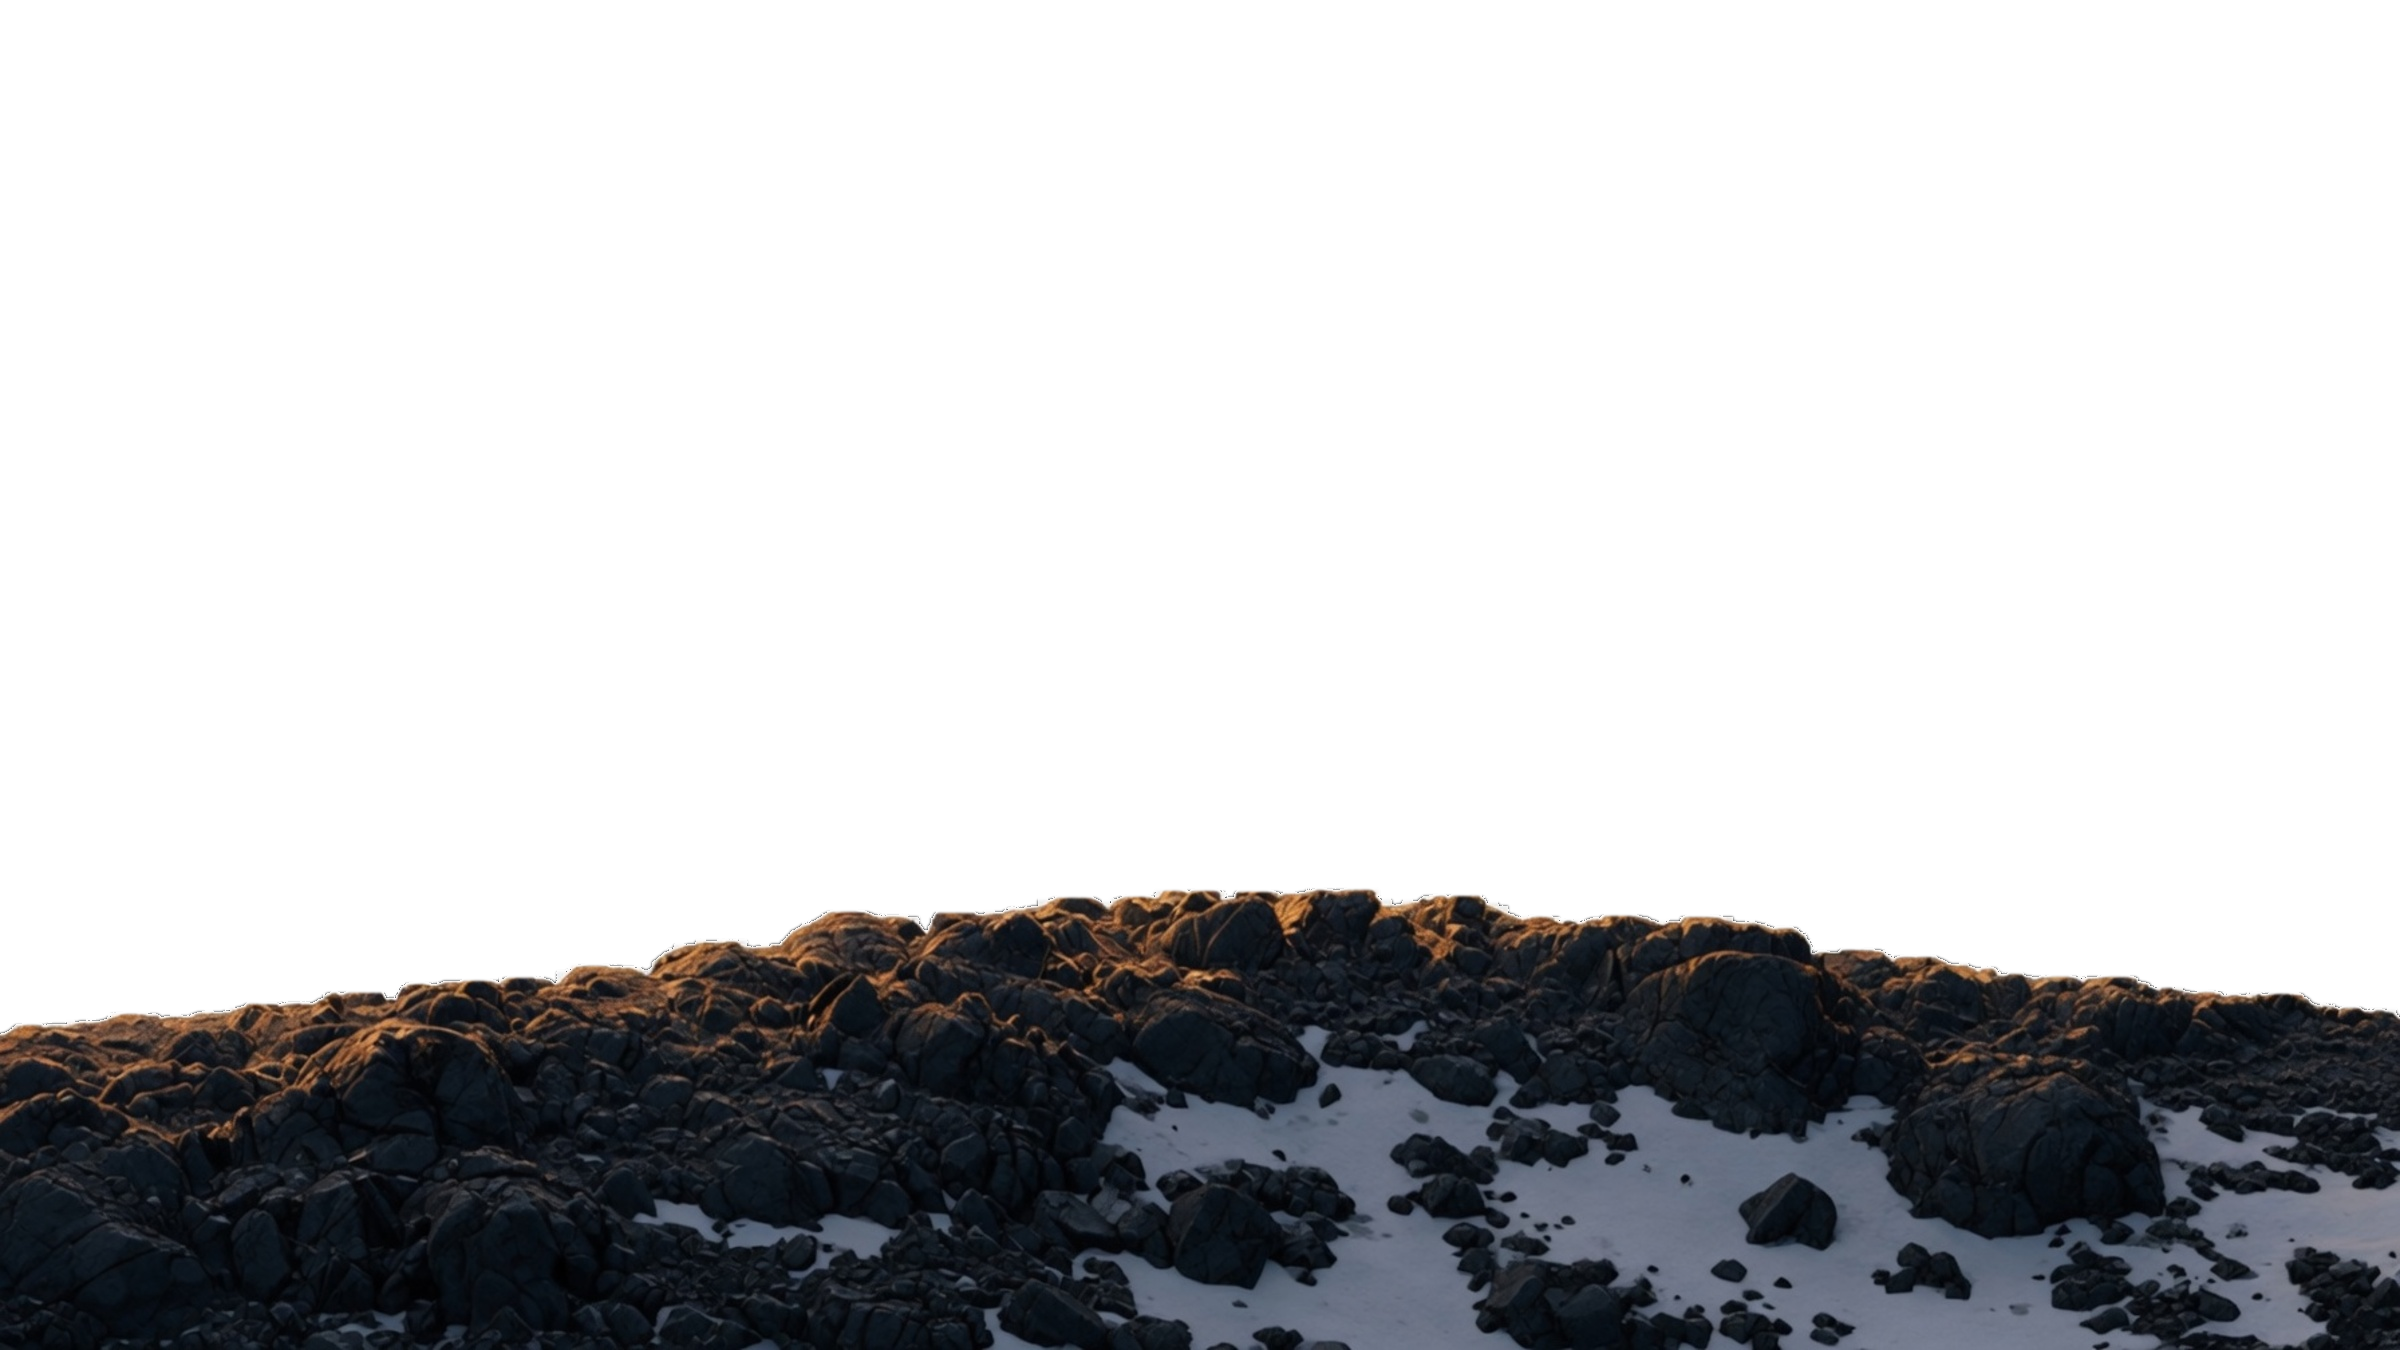
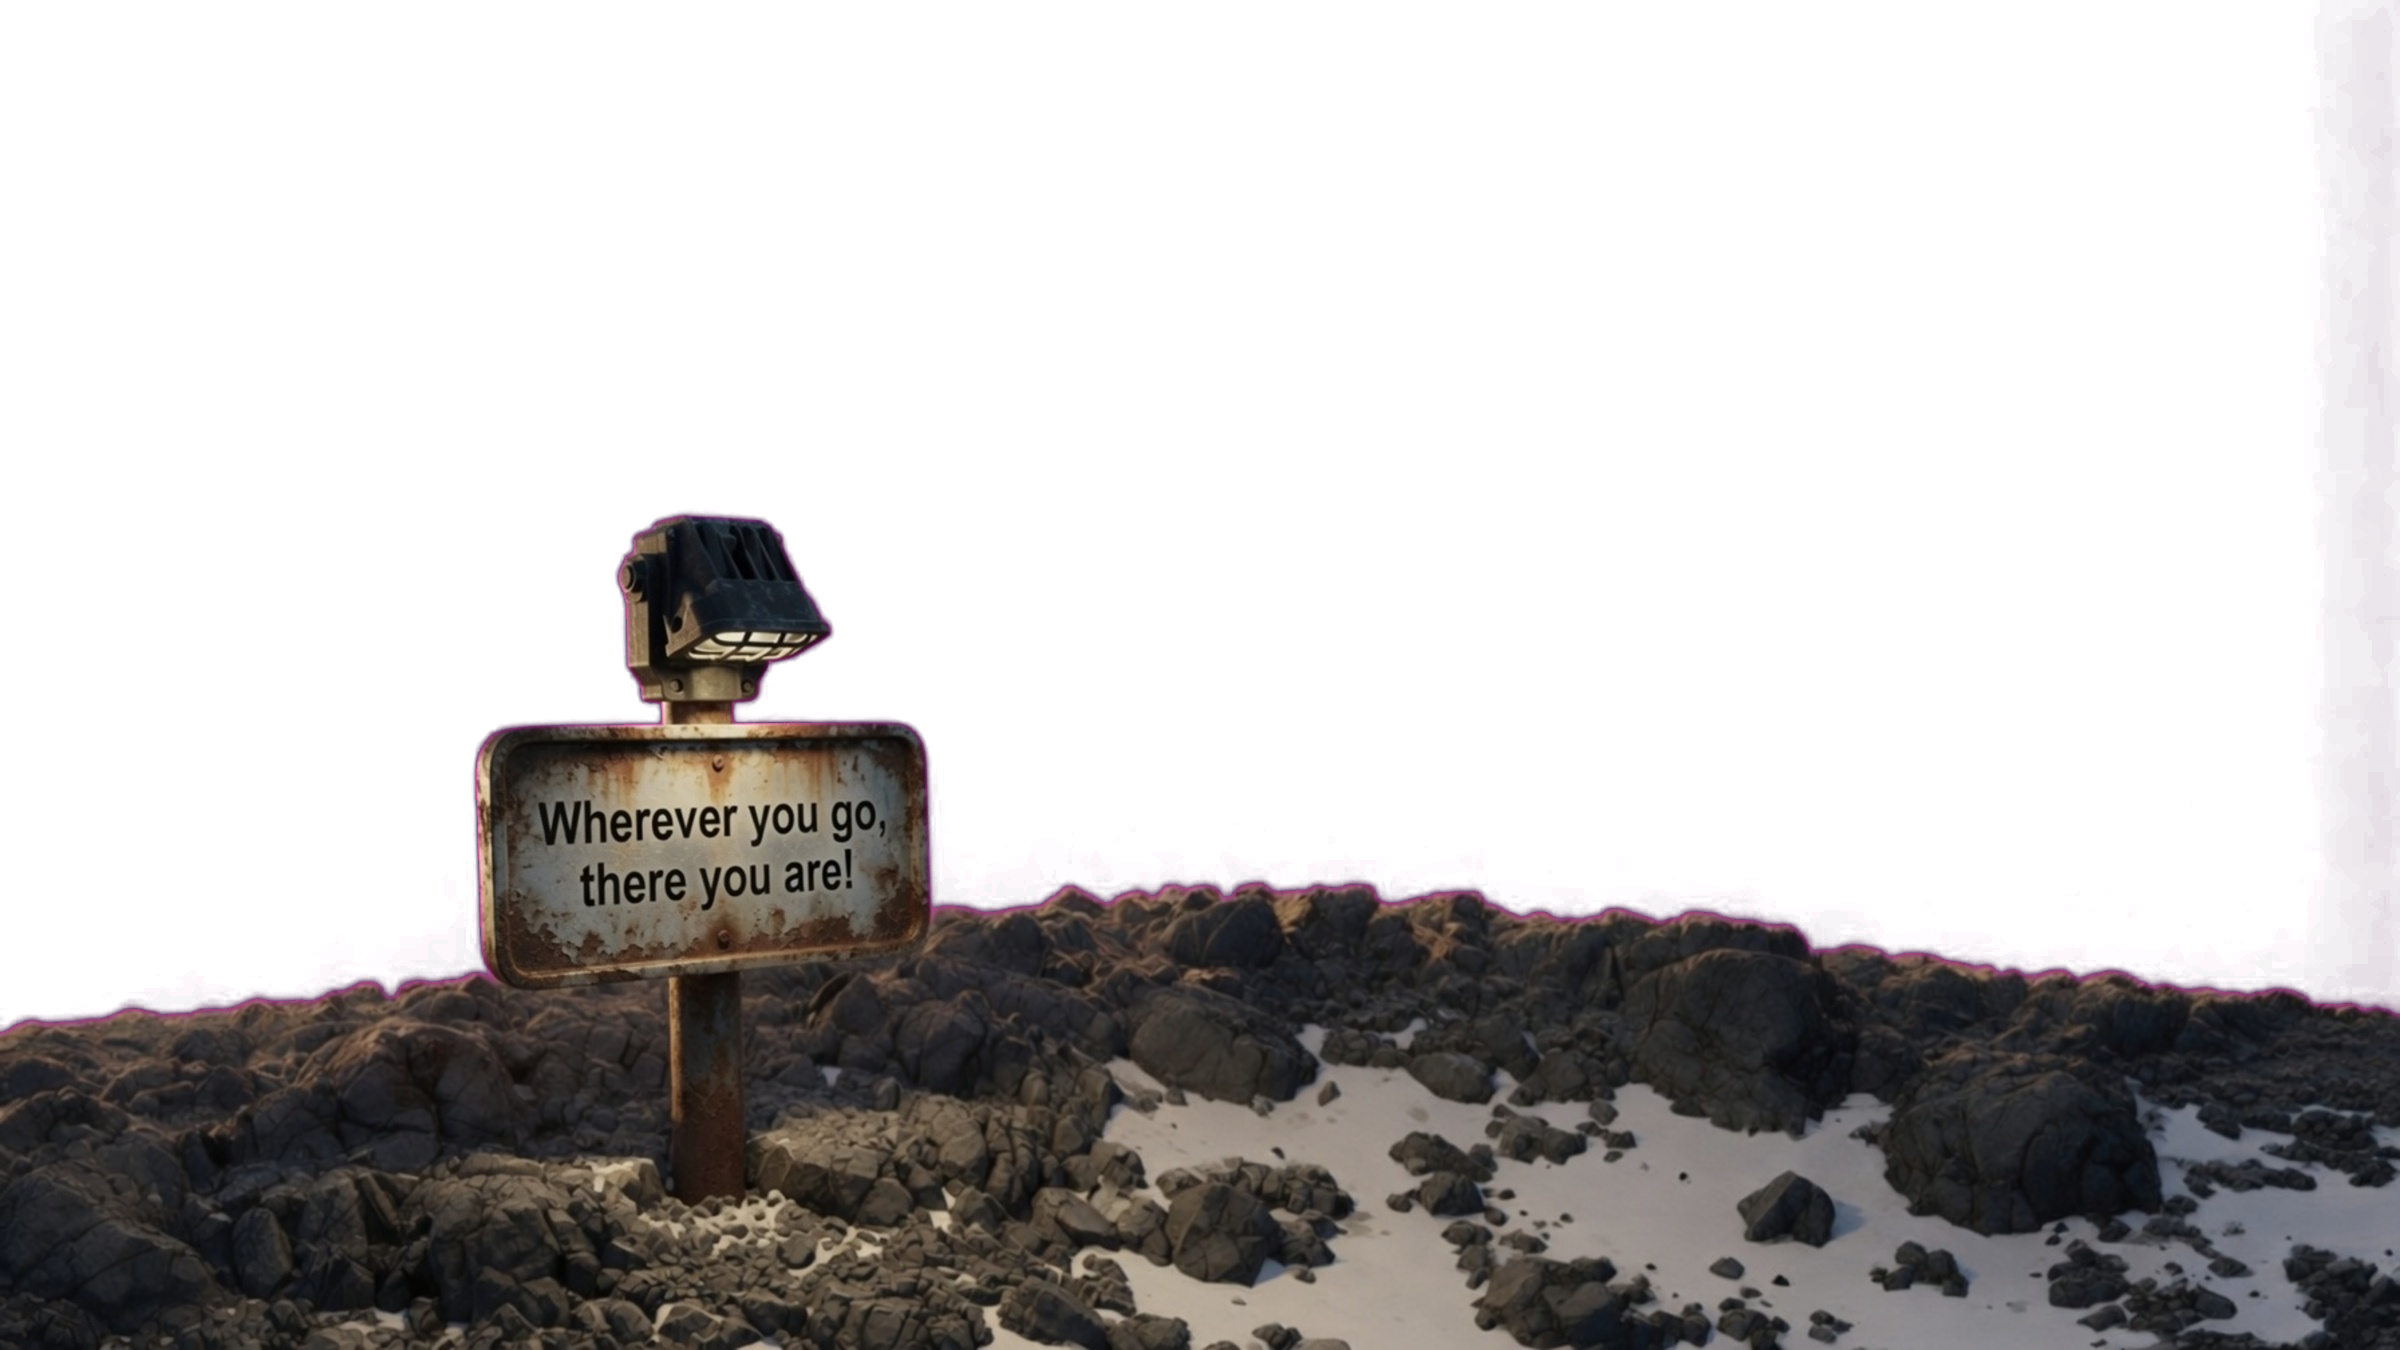
Add files via upload

Changed region(s): [[0.0, 0.0, 1.0, 1.0]]

diff --git a/index.html b/index.html
@@ -395,9 +395,11 @@
         <div class="textreq" id="textReq">
           <h4>Have PJ Reach Out</h4>
           <p>No texting app detected on this device. Leave your details and PJ will get back to you directly.</p>
-          <form name="text-request" method="POST" data-netlify="true" id="textReqForm">
-            <input type="hidden" name="form-name" value="text-request">
+          <form action="https://api.web3forms.com/submit" method="POST" id="textReqForm">
+            <input type="hidden" name="access_key" value="e598a2d0-d123-4f67-8634-fdf75e8dbc06">
             <input type="hidden" name="subject" value="TEXT REQUESTED">
+            <input type="hidden" name="from_name" value="Fitness Brainiac Website">
+            <input type="checkbox" name="botcheck" style="display:none;" tabindex="-1" autocomplete="off">
             <label for="tr-name">YOUR NAME</label>
             <input id="tr-name" name="name" type="text" required>
             <label for="tr-contact">PHONE OR EMAIL</label>
@@ -415,12 +417,16 @@
             </div>
           </form>
         </div>
-        <form name="contact" method="POST" data-netlify="true" class="form-grid">
-          <input type="hidden" name="form-name" value="contact">
+        <form action="https://api.web3forms.com/submit" method="POST" class="form-grid" id="contactForm">
+          <input type="hidden" name="access_key" value="e598a2d0-d123-4f67-8634-fdf75e8dbc06">
+          <input type="hidden" name="subject" value="New inquiry — Fitness Brainiac">
+          <input type="hidden" name="from_name" value="Fitness Brainiac Website">
+          <input type="checkbox" name="botcheck" style="display:none;" tabindex="-1" autocomplete="off">
           <div><label for="cf-name">NAME</label><input id="cf-name" name="name" type="text" required></div>
           <div><label for="cf-email">EMAIL</label><input id="cf-email" name="email" type="email" required></div>
           <div><label for="cf-message">MESSAGE</label><textarea id="cf-message" name="message" rows="5" required></textarea></div>
           <button type="submit" class="btn primary" style="width:fit-content;">SEND INQUIRY</button>
+          <span class="tr-sent" id="contactSent" style="display:none;color:var(--blue);font-family:'IBM Plex Mono',monospace;font-size:12.5px;letter-spacing:0.04em;">&#10003; SENT — PJ WILL BE IN TOUCH</span>
         </form>
       </div>
     </section>
@@ -490,13 +496,16 @@
     document.querySelectorAll('.reveal').forEach(function(el){ io.observe(el); });
   })();
 
-  // Fitness Brainiac Radio — official YouTube IFrame API, off by default.
+  // Fitness Brainiac Radio — official YouTube IFrame API. Persists on/off across pages via cookie.
   (function(){
     var btn = document.getElementById('radioBtn');
     var statusEl = document.getElementById('radioStatus');
     if (!btn) return;
     var VIDEO_ID = 'd8Oc90QevaI';   // Monstercat Silk 24/7 live stream
     var player = null, ready = false, playing = false, pending = false;
+
+    function setCookie(v){ document.cookie = 'fbRadio=' + v + ';path=/;max-age=' + (60*60*24*7) + ';SameSite=Lax'; }
+    function wantsOn(){ return document.cookie.split(';').some(function(c){ return c.trim() === 'fbRadio=on'; }); }
 
     function loadAPI(){
       if (window.YT && window.YT.Player) { initPlayer(); return; }
@@ -529,14 +538,21 @@
       btn.setAttribute('aria-pressed', on ? 'true' : 'false');
       statusEl.textContent = on ? 'ON AIR' : 'OFF';
     }
-    function play(){ if (player && player.playVideo){ player.setVolume(60); player.playVideo(); } }
-    function stop(){ if (player && player.pauseVideo){ player.pauseVideo(); } }
+    function play(){ if (player && player.playVideo){ player.setVolume(60); player.playVideo(); } setCookie('on'); }
+    function stop(){ if (player && player.pauseVideo){ player.pauseVideo(); } setCookie('off'); }
 
     btn.addEventListener('click', function(){
       if (!player){ pending = true; statusEl.textContent = '...'; loadAPI(); return; }
       if (!ready){ pending = true; return; }
       if (playing) stop(); else play();
     });
+
+    // Resume across navigation: if the radio was on, auto-start on this page.
+    if (wantsOn()){
+      statusEl.textContent = '...';
+      pending = true;
+      loadAPI();
+    }
   })();
   // Phone: tap reveals number; press-and-hold 3.5s -> mobile opens Messages,
   // desktop (no SMS app) opens a styled "have PJ reach out" panel. Auto-reverts after 6s idle.
@@ -627,15 +643,47 @@
       panel.classList.remove('show'); revertFlip();
     });
 
-    // Submit the text-request via Netlify (AJAX) so we can show inline confirmation.
+    // Submit the text-request via Web3Forms (AJAX) so we can show inline confirmation.
     if (form) form.addEventListener('submit', function(e){
       e.preventDefault();
-      var data = new URLSearchParams(new FormData(form)).toString();
-      fetch('/', { method:'POST', headers:{'Content-Type':'application/x-www-form-urlencoded'}, body:data })
-        .then(function(){
-          form.querySelector('.btn').style.display = 'none';
-          if (cancelBtn) cancelBtn.style.display = 'none';
-          if (sent) sent.style.display = 'inline';
+      var payload = {};
+      new FormData(form).forEach(function(v,k){ payload[k] = v; });
+      fetch('https://api.web3forms.com/submit', {
+        method:'POST',
+        headers:{'Content-Type':'application/json', 'Accept':'application/json'},
+        body: JSON.stringify(payload)
+      }).then(function(r){ return r.json(); })
+        .then(function(res){
+          if (res.success){
+            form.querySelector('.btn').style.display = 'none';
+            if (cancelBtn) cancelBtn.style.display = 'none';
+            if (sent) sent.style.display = 'inline';
+          } else { form.submit(); }
+        })
+        .catch(function(){ form.submit(); });
+    });
+  })();
+
+  // Main contact form -> Web3Forms with inline confirmation.
+  (function(){
+    var form = document.getElementById('contactForm');
+    var sent = document.getElementById('contactSent');
+    if (!form) return;
+    form.addEventListener('submit', function(e){
+      e.preventDefault();
+      var payload = {};
+      new FormData(form).forEach(function(v,k){ payload[k] = v; });
+      fetch('https://api.web3forms.com/submit', {
+        method:'POST',
+        headers:{'Content-Type':'application/json', 'Accept':'application/json'},
+        body: JSON.stringify(payload)
+      }).then(function(r){ return r.json(); })
+        .then(function(res){
+          if (res.success){
+            form.querySelector('.btn').style.display = 'none';
+            if (sent) sent.style.display = 'inline';
+            form.reset();
+          } else { form.submit(); }
         })
         .catch(function(){ form.submit(); });
     });

diff --git a/about.html b/about.html
@@ -427,13 +427,16 @@
     document.querySelectorAll('.reveal').forEach(function(el){ io.observe(el); });
   })();
 
-  // Fitness Brainiac Radio — official YouTube IFrame API, off by default.
+  // Fitness Brainiac Radio — official YouTube IFrame API. Persists on/off across pages via cookie.
   (function(){
     var btn = document.getElementById('radioBtn');
     var statusEl = document.getElementById('radioStatus');
     if (!btn) return;
     var VIDEO_ID = 'd8Oc90QevaI';   // Monstercat Silk 24/7 live stream
     var player = null, ready = false, playing = false, pending = false;
+
+    function setCookie(v){ document.cookie = 'fbRadio=' + v + ';path=/;max-age=' + (60*60*24*7) + ';SameSite=Lax'; }
+    function wantsOn(){ return document.cookie.split(';').some(function(c){ return c.trim() === 'fbRadio=on'; }); }
 
     function loadAPI(){
       if (window.YT && window.YT.Player) { initPlayer(); return; }
@@ -466,14 +469,21 @@
       btn.setAttribute('aria-pressed', on ? 'true' : 'false');
       statusEl.textContent = on ? 'ON AIR' : 'OFF';
     }
-    function play(){ if (player && player.playVideo){ player.setVolume(60); player.playVideo(); } }
-    function stop(){ if (player && player.pauseVideo){ player.pauseVideo(); } }
+    function play(){ if (player && player.playVideo){ player.setVolume(60); player.playVideo(); } setCookie('on'); }
+    function stop(){ if (player && player.pauseVideo){ player.pauseVideo(); } setCookie('off'); }
 
     btn.addEventListener('click', function(){
       if (!player){ pending = true; statusEl.textContent = '...'; loadAPI(); return; }
       if (!ready){ pending = true; return; }
       if (playing) stop(); else play();
     });
+
+    // Resume across navigation: if the radio was on, auto-start on this page.
+    if (wantsOn()){
+      statusEl.textContent = '...';
+      pending = true;
+      loadAPI();
+    }
   })();</script>
 </body>
 </html>

diff --git a/mind-forward.html b/mind-forward.html
@@ -440,13 +440,16 @@
     document.querySelectorAll('.reveal').forEach(function(el){ io.observe(el); });
   })();
 
-  // Fitness Brainiac Radio — official YouTube IFrame API, off by default.
+  // Fitness Brainiac Radio — official YouTube IFrame API. Persists on/off across pages via cookie.
   (function(){
     var btn = document.getElementById('radioBtn');
     var statusEl = document.getElementById('radioStatus');
     if (!btn) return;
     var VIDEO_ID = 'd8Oc90QevaI';   // Monstercat Silk 24/7 live stream
     var player = null, ready = false, playing = false, pending = false;
+
+    function setCookie(v){ document.cookie = 'fbRadio=' + v + ';path=/;max-age=' + (60*60*24*7) + ';SameSite=Lax'; }
+    function wantsOn(){ return document.cookie.split(';').some(function(c){ return c.trim() === 'fbRadio=on'; }); }
 
     function loadAPI(){
       if (window.YT && window.YT.Player) { initPlayer(); return; }
@@ -479,14 +482,21 @@
       btn.setAttribute('aria-pressed', on ? 'true' : 'false');
       statusEl.textContent = on ? 'ON AIR' : 'OFF';
     }
-    function play(){ if (player && player.playVideo){ player.setVolume(60); player.playVideo(); } }
-    function stop(){ if (player && player.pauseVideo){ player.pauseVideo(); } }
+    function play(){ if (player && player.playVideo){ player.setVolume(60); player.playVideo(); } setCookie('on'); }
+    function stop(){ if (player && player.pauseVideo){ player.pauseVideo(); } setCookie('off'); }
 
     btn.addEventListener('click', function(){
       if (!player){ pending = true; statusEl.textContent = '...'; loadAPI(); return; }
       if (!ready){ pending = true; return; }
       if (playing) stop(); else play();
     });
+
+    // Resume across navigation: if the radio was on, auto-start on this page.
+    if (wantsOn()){
+      statusEl.textContent = '...';
+      pending = true;
+      loadAPI();
+    }
   })();</script>
 </body>
 </html>

diff --git a/personal-training-agoura-hills.html b/personal-training-agoura-hills.html
@@ -442,13 +442,16 @@
     document.querySelectorAll('.reveal').forEach(function(el){ io.observe(el); });
   })();
 
-  // Fitness Brainiac Radio — official YouTube IFrame API, off by default.
+  // Fitness Brainiac Radio — official YouTube IFrame API. Persists on/off across pages via cookie.
   (function(){
     var btn = document.getElementById('radioBtn');
     var statusEl = document.getElementById('radioStatus');
     if (!btn) return;
     var VIDEO_ID = 'd8Oc90QevaI';   // Monstercat Silk 24/7 live stream
     var player = null, ready = false, playing = false, pending = false;
+
+    function setCookie(v){ document.cookie = 'fbRadio=' + v + ';path=/;max-age=' + (60*60*24*7) + ';SameSite=Lax'; }
+    function wantsOn(){ return document.cookie.split(';').some(function(c){ return c.trim() === 'fbRadio=on'; }); }
 
     function loadAPI(){
       if (window.YT && window.YT.Player) { initPlayer(); return; }
@@ -481,14 +484,21 @@
       btn.setAttribute('aria-pressed', on ? 'true' : 'false');
       statusEl.textContent = on ? 'ON AIR' : 'OFF';
     }
-    function play(){ if (player && player.playVideo){ player.setVolume(60); player.playVideo(); } }
-    function stop(){ if (player && player.pauseVideo){ player.pauseVideo(); } }
+    function play(){ if (player && player.playVideo){ player.setVolume(60); player.playVideo(); } setCookie('on'); }
+    function stop(){ if (player && player.pauseVideo){ player.pauseVideo(); } setCookie('off'); }
 
     btn.addEventListener('click', function(){
       if (!player){ pending = true; statusEl.textContent = '...'; loadAPI(); return; }
       if (!ready){ pending = true; return; }
       if (playing) stop(); else play();
     });
+
+    // Resume across navigation: if the radio was on, auto-start on this page.
+    if (wantsOn()){
+      statusEl.textContent = '...';
+      pending = true;
+      loadAPI();
+    }
   })();</script>
 </body>
 </html>

diff --git a/training.html b/training.html
@@ -442,13 +442,16 @@
     document.querySelectorAll('.reveal').forEach(function(el){ io.observe(el); });
   })();
 
-  // Fitness Brainiac Radio — official YouTube IFrame API, off by default.
+  // Fitness Brainiac Radio — official YouTube IFrame API. Persists on/off across pages via cookie.
   (function(){
     var btn = document.getElementById('radioBtn');
     var statusEl = document.getElementById('radioStatus');
     if (!btn) return;
     var VIDEO_ID = 'd8Oc90QevaI';   // Monstercat Silk 24/7 live stream
     var player = null, ready = false, playing = false, pending = false;
+
+    function setCookie(v){ document.cookie = 'fbRadio=' + v + ';path=/;max-age=' + (60*60*24*7) + ';SameSite=Lax'; }
+    function wantsOn(){ return document.cookie.split(';').some(function(c){ return c.trim() === 'fbRadio=on'; }); }
 
     function loadAPI(){
       if (window.YT && window.YT.Player) { initPlayer(); return; }
@@ -481,14 +484,21 @@
       btn.setAttribute('aria-pressed', on ? 'true' : 'false');
       statusEl.textContent = on ? 'ON AIR' : 'OFF';
     }
-    function play(){ if (player && player.playVideo){ player.setVolume(60); player.playVideo(); } }
-    function stop(){ if (player && player.pauseVideo){ player.pauseVideo(); } }
+    function play(){ if (player && player.playVideo){ player.setVolume(60); player.playVideo(); } setCookie('on'); }
+    function stop(){ if (player && player.pauseVideo){ player.pauseVideo(); } setCookie('off'); }
 
     btn.addEventListener('click', function(){
       if (!player){ pending = true; statusEl.textContent = '...'; loadAPI(); return; }
       if (!ready){ pending = true; return; }
       if (playing) stop(); else play();
     });
+
+    // Resume across navigation: if the radio was on, auto-start on this page.
+    if (wantsOn()){
+      statusEl.textContent = '...';
+      pending = true;
+      loadAPI();
+    }
   })();
   (function(){
     var toggle = document.getElementById('durationToggle');

diff --git a/README.md b/README.md
@@ -3,18 +3,23 @@
 Static site for PJ Hradilek's private personal training business in Agoura Hills, CA.
 
 ## Structure
-- `index.html` — Home (hero, about teaser, pricing CTA, Mind Forward teaser, contact form + phone widget)
-- `about.html` — Bio / credentials
-- `training.html` — Full rates with 60/30-minute toggle
-- `mind-forward.html` — Seasonal wellness program
-- `personal-training-agoura-hills.html` — Local SEO landing page
-- `assets/` — Images (parallax layers, portraits)
-- `sitemap.xml`, `robots.txt` — Search engine crawl files
+- index.html — Home (hero, about teaser, pricing CTA, Mind Forward teaser, contact form + phone widget)
+- about.html — Bio / credentials
+- training.html — Full rates with 60/30-minute toggle
+- mind-forward.html — Seasonal wellness program
+- personal-training-agoura-hills.html — Local SEO landing page
+- assets/ — Images (parallax layers, portraits)
+- sitemap.xml, robots.txt — Search engine crawl files
 
 ## Deploy
-Static files — no build step. Host on Netlify (connected to this repo).
-Netlify auto-detects the two forms (`contact`, `text-request`) and the site deploys on every commit.
+Static files — no build step. Host on Netlify (connected to this repo). Deploys on every commit.
+Upload the CONTENTS of this folder to the repo ROOT (index.html at top level, assets/ beside it).
+
+## Forms
+Both forms (contact + desktop "TEXT REQUESTED") post to Web3Forms and email [email redacted].
+Access key is embedded in index.html. Free tier: 250 submissions/month.
 
 ## Notes
-- Radio widget streams a live YouTube feed (video ID in index.html). If it goes offline, swap the ID.
-- Fog/mountain transparency is baked into the PNGs; do not re-flatten them.
+- Radio widget streams a live YouTube feed (VIDEO_ID in index.html). If offline, swap the ID.
+- Radio on/off persists across pages via a 7-day cookie; audio restarts briefly on each navigation.
+- Fog/mountain/ground transparency is baked into the PNGs; do not re-flatten them.